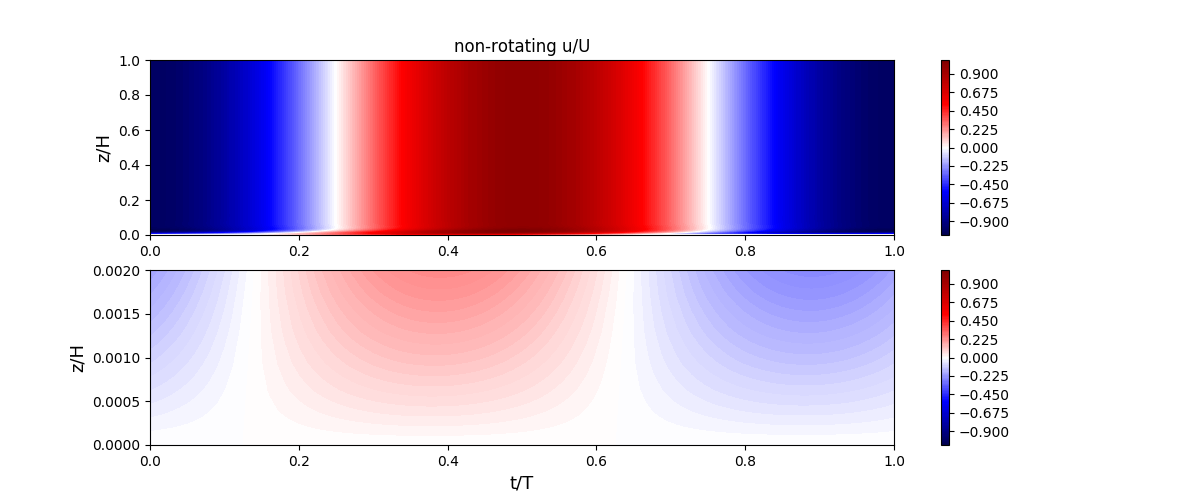
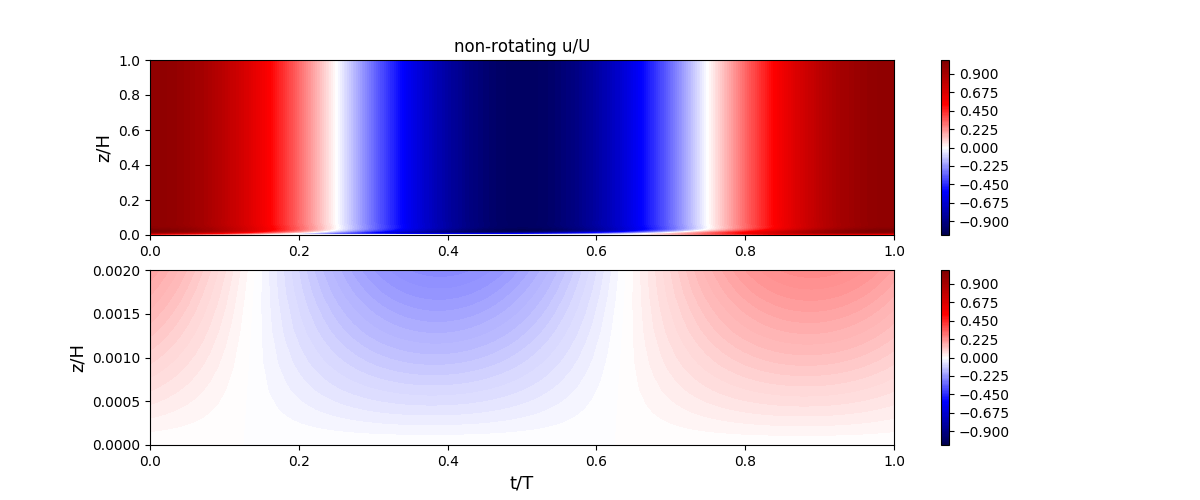
base flow & finite difference verification

diff --git a/verification_tests/functions.py b/verification_tests/functions.py
@@ -160,7 +160,8 @@ def grid_choice( grid_flag , Nz , H ):
  return z,dz
 
 
-def nonrotating_solution( params, time ): #U, N, omg, tht, nu, kap, t, z ):
+def nonrotating_solution( params, time ):  
+ # don't use, the u & b are 90 degrees out of phase
  
  z = params['z']
  U = params['U']
@@ -227,17 +228,17 @@ def nonrotating_solution( params, time ): #U, N, omg, tht, nu, kap, t, z ):
  for i in range(0,Nz):
   
      if criticality < 1.:
-       u[i] = U*np.real( (u1*np.exp(-(1.+1j)*z[i]/d1) + \
+       u[i] = - U*np.real( (u1*np.exp(-(1.+1j)*z[i]/d1) + \
                 u2*np.exp(-(1.+1j)*z[i]/d2) - 1.)*np.exp(1j*omg*time) )
-       uz[i] = - U*np.real( (u1*(1.+1j)/d1*np.exp(-(1.+1j)*z[i]/d1) + \
+       uz[i] = U*np.real( (u1*(1.+1j)/d1*np.exp(-(1.+1j)*z[i]/d1) + \
                u2*(1.+1j)/d2*np.exp(-(1.+1j)*z[i]/d2) )*np.exp(1j*omg*time) )
-       b[i] = Bs*np.real( (b1*np.exp(-(1.0+1j)*z[i]/d1) - \
+       b[i] = - Bs*np.real( (b1*np.exp(-(1.0+1j)*z[i]/d1) - \
                 b2*np.exp(-(1.+1j)*z[i]/d2) - 1.)*1j*np.exp(1j*omg*time) )
-       bz[i] = Bs*np.real( ( -(1.0+1j)/d1*b1*np.exp(-(1.0+1j)*z[i]/d1) + \
+       bz[i] = - Bs*np.real( ( -(1.0+1j)/d1*b1*np.exp(-(1.0+1j)*z[i]/d1) + \
              (1.+1j)/d2*b2*np.exp(-(1.+1j)*z[i]/d2) )*1j*np.exp(1j*omg*time) )
 
      if criticality > 1.:
-       u[i] = U*np.real( (u1*(2.*kap*d1+omg*d1*d2**2.+ \
+       u[i] = - U*np.real( (u1*(2.*kap*d1+omg*d1*d2**2.+ \
                 1j*(2.*kap*d2-omg*d1**2.*d2))*np.exp((1j-1.0)*z[i]/d2)+ \
                 u2*(omg*d1**2.*d2-2.*kap*d2+ \
                 1j*(2.0*kap*d1+omg*d1*d2**2.))*np.exp(-(1j+1.)*z[i]/d1)- \
@@ -264,7 +265,7 @@ def nonrotating_solution( params, time ): #U, N, omg, tht, nu, kap, t, z ):
  return  b, u, bz, uz
 
 
-def rotating_solution( params, time ):
+def rotating_solution( params, time, order ):
 
  z = params['z']
  U = params['U']
@@ -371,23 +372,45 @@ def rotating_solution( params, time ):
   print('Wall boundary condition failure for b(z,t)')
   return 
  
- b = np.zeros([Nz]); bz = np.zeros([Nz])
- u = np.zeros([Nz]); uz = np.zeros([Nz])
- v = np.zeros([Nz]); vz = np.zeros([Nz])
- 
+ b = np.zeros([Nz]); u = np.zeros([Nz]); v = np.zeros([Nz]); 
+ if order >= 1:
+   bz = np.zeros([Nz]); uz = np.zeros([Nz]); vz = np.zeros([Nz]);
+ if order == 2:
+   bzz = np.zeros([Nz]); uzz = np.zeros([Nz]); vzz = np.zeros([Nz]);
+
  for i in range(0,Nz):
    u[i] = np.real( ( u1*np.exp(-np.sqrt(phi1)*z[i]) + u2*np.exp(-np.sqrt(phi2)*z[i]) + \
                      u3*np.exp(-np.sqrt(phi3)*z[i]) + ap*omg ) * np.exp(1j*omg*time) ) / (N**2.*np.sin(tht))
+   if order >= 1:
+     uz[i] = np.real( ( - np.sqrt(phi1)*u1*np.exp(-np.sqrt(phi1)*z[i]) - np.sqrt(phi2)*u2*np.exp(-np.sqrt(phi2)*z[i]) - \
+                        np.sqrt(phi3)*u3*np.exp(-np.sqrt(phi3)*z[i]) ) * np.exp(1j*omg*time) ) / (N**2.*np.sin(tht))
+   if order == 2:
+     uzz[i] = np.real( ( np.sqrt(phi1)**2.*u1*np.exp(-np.sqrt(phi1)*z[i]) + np.sqrt(phi2)**2.*u2*np.exp(-np.sqrt(phi2)*z[i]) + \
+                     + np.sqrt(phi3)**2.*u3*np.exp(-np.sqrt(phi3)*z[i]) ) * np.exp(1j*omg*time) ) / (N**2.*np.sin(tht))
    if f > 0.:
      v[i] = np.real( ( v1*np.exp(-np.sqrt(phi1)*z[i]) + v2*np.exp(-np.sqrt(phi2)*z[i]) + \
                        v3*np.exp(-np.sqrt(phi3)*z[i]) + ap*(omg**2.-(N*np.sin(tht))**2 ) - \
                        A*N**2.*np.sin(tht) ) * 1j * np.exp(1j*omg*time) ) / (f * np.cos(tht) * N**2.*np.sin(tht)) 
+     if order >= 1:
+       vz[i] = np.real( ( - np.sqrt(phi1)*v1*np.exp(-np.sqrt(phi1)*z[i]) - np.sqrt(phi2)*v2*np.exp(-np.sqrt(phi2)*z[i]) - \
+                          np.sqrt(phi3)*v3*np.exp(-np.sqrt(phi3)*z[i]) ) * 1j * np.exp(1j*omg*time) ) / (f * np.cos(tht) * N**2.*np.sin(tht)) 
+     if order == 2:
+       vzz[i] = np.real( ( np.sqrt(phi1)**2.*v1*np.exp(-np.sqrt(phi1)*z[i]) + np.sqrt(phi2)**2.*v2*np.exp(-np.sqrt(phi2)*z[i]) + \
+                         np.sqrt(phi3)**2.*v3*np.exp(-np.sqrt(phi3)*z[i]) ) * 1j * np.exp(1j*omg*time) ) / (f * np.cos(tht) * N**2.*np.sin(tht)) 
    if f <= 0.:
      v[i] = 0.
+     if order >= 1:
+       vz[i] = 0.
+     if order == 2:
+       vzz[i] = 0.
    b[i] = np.real( ( c2*np.exp(-np.sqrt(phi1)*z[i]) + c4*np.exp(-np.sqrt(phi2)*z[i]) + \
                      c6*np.exp(-np.sqrt(phi3)*z[i]) + ap ) * 1j * np.exp(1j*omg*time) ) 
-
- # add gradients!!
+   if order >= 1:
+     bz[i] = np.real( ( - np.sqrt(phi1)*c2*np.exp(-np.sqrt(phi1)*z[i]) - np.sqrt(phi2)*c4*np.exp(-np.sqrt(phi2)*z[i]) - \
+                        np.sqrt(phi3)*c6*np.exp(-np.sqrt(phi3)*z[i]) ) * 1j * np.exp(1j*omg*time) ) 
+   if order == 2:
+     bzz[i] = np.real( ( np.sqrt(phi1)**2.*c2*np.exp(-np.sqrt(phi1)*z[i]) + np.sqrt(phi2)**2.*c4*np.exp(-np.sqrt(phi2)*z[i]) + \
+                      np.sqrt(phi3)**2.*c6*np.exp(-np.sqrt(phi3)*z[i]) ) * 1j * np.exp(1j*omg*time) ) 
  
  if params['wall'] == 'moving':
    u = u + np.real(U*np.exp(1j*omg*time))
@@ -396,13 +419,12 @@ def rotating_solution( params, time ):
      v = v - np.real( ( ap*(omg**2.-(N*np.sin(tht))**2 ) - A*N**2.*np.sin(tht) ) * 1j * np.exp(1j*omg*time) ) / (f * np.cos(tht) * N**2.*np.sin(tht))
      # subtract the geostropphic component of v; means the wall moves in the along-slope direction
 
- u = np.real(u) 
- v = np.real(v) 
- b = np.real(b)
- uz = np.real(uz) 
- bz = np.real(bz)
-
- return b, u, v
+ if order < 1.:
+   return np.real(b), np.real(u), np.real(v)
+ if order == 1.:
+   return np.real(b), np.real(u), np.real(v), np.real(bz), np.real(uz), np.real(vz)
+ if order == 2.:
+   return np.real(b), np.real(u), np.real(v), np.real(bz), np.real(uz), np.real(vz), np.real(bzz), np.real(uzz), np.real(vzz)
 
 
 #==============================================================================
@@ -425,7 +447,7 @@ def weights2( z0 , z1 , z2 , z3 , zj ):
  return l0, l1, l2, l3
 
 
-def partial_zz( params, time, lower_BC_flag , upper_BC_flag ):
+def partial_zz( params, lower_BC_flag , upper_BC_flag ):
  # second derivative, permiting non-uniform grids
  Nz = params['Nz']
  z = params['z']
@@ -450,6 +472,7 @@ def partial_zz( params, time, lower_BC_flag , upper_BC_flag ):
  if lower_BC_flag == 'neumann':
    l1 = l1 + l0 # Neumann for dz(phi)=0 at z=0 (sets phi_ghost = phi_0)
  pzz[0,0:3] = [ l1 , l2 , l3 ]
+ lBC = l0
 
  # upper (far field) BC
  zj = z[Nz-1] # location of derivative for upper BC
@@ -459,7 +482,7 @@ def partial_zz( params, time, lower_BC_flag , upper_BC_flag ):
  if upper_BC_flag == 'neumann':
    l2 = l3 + l2 # Neumann for dz(phi)=0 at z=H (sets phi_ghost = phi_N)
  pzz[Nz-1,Nz-3:Nz] = [ l0 , l1 , l2 ]
- return pzz
+ return pzz,lBC
 
 
 def partial_z( params, lower_BC_flag , upper_BC_flag ):
@@ -486,7 +509,8 @@ def partial_z( params, lower_BC_flag , upper_BC_flag ):
  if lower_BC_flag == 'neumann':
    l1 = l1 + l0 # Neumann for dz(phi)=0 at z=0 (sets phi_ghost = phi_0)
  pz[0,0:3] = [ l1 , l2 , l3 ]
-   
+ lBC = l0
+  
  # upper (far field) BC
  l0, l1, l2, l3 = weights( z[Nz-3] , z[Nz-2] , z[Nz-1] , H + (H-z[Nz-1]) , z[Nz-1] )
  if upper_BC_flag == 'dirchlet':
@@ -495,7 +519,7 @@ def partial_z( params, lower_BC_flag , upper_BC_flag ):
    l2 = l3 + l2 # Neumann for dz(phi)=0 at z=H (sets phi_ghost = phi_N)
  pz[Nz-1,Nz-3:Nz] = [ l0 , l1 , l2 ]
  
- return pz
+ return pz,lBC
 
 
 def weights( z0 , z1 , z2 , z3 , zj ):

diff --git a/verification_tests/base_flow_test.py b/verification_tests/base_flow_test.py
@@ -2,6 +2,7 @@
 # Bryan Kaiser
 # 3/  /2019
 
+# rotating vs. non-rotating phase relationships: one is not correct! 
 
 import h5py
 import numpy as np
@@ -29,7 +30,7 @@ nu = 2.0e-6 # m^2/s, kinematic viscosity
 Pr = 1. # Prandtl number
 kap = nu/Pr # m^2/s, thermometric diffusivity
 omg = 2.0*np.pi/T # rads/s
-f = 1e-4 # 1/s, inertial frequency
+f = 0. #1e-4 # 1/s, inertial frequency
 N = 1e-3 # 1/s, buoyancy frequency
 C = 1./4. # N^2*sin(tht)/omg, slope ``criticality''
 U = 0.01 # m/s, oscillation velocity amplitude
@@ -58,31 +59,44 @@ params = {'nu': nu, 'kap': kap, 'omg': omg, 'L':L, 'T': T, 'U': U, 'H': H,
           'dz_min':(np.amin(dz)),'Nt':Nt, 'CFL':(dt/np.amin(dz)), 'z':z, 'dz':dz}
 
 
+# non-rotating solutions
 u = np.zeros([Nz,Nt]); b = np.zeros([Nz,Nt]); 
 uz = np.zeros([Nz,Nt]); bz = np.zeros([Nz,Nt]); 
-t = np.zeros([Nt])
 
+# rotating solutions
 ur = np.zeros([Nz,Nt]); vr = np.zeros([Nz,Nt]); br = np.zeros([Nz,Nt]); 
+uzr = np.zeros([Nz,Nt]); vzr = np.zeros([Nz,Nt]); bzr = np.zeros([Nz,Nt]); 
+uzzr = np.zeros([Nz,Nt]); vzzr = np.zeros([Nz,Nt]); bzzr = np.zeros([Nz,Nt]);
 
-uz_check = np.zeros([Nz,Nt]);
-bz_check = np.zeros([Nz,Nt]);
+# verification of the finite differencing
+uz_check = np.zeros([Nz,Nt]); bz_check = np.zeros([Nz,Nt]);
+uzz_check = np.zeros([Nz,Nt]); bzz_check = np.zeros([Nz,Nt]);
 
 
+t = np.zeros([Nt])
 time = 0.
-
 for n in range(0,Nt):
 
   t[n] = time
   b[:,n],u[:,n],bz[:,n],uz[:,n] = fn.nonrotating_solution( params, time )
-  br[:,n],ur[:,n],vr[:,n] = fn.rotating_solution( params, time )
-  time = time + dt
-
+  br[:,n], ur[:,n], vr[:,n], bzr[:,n], uzr[:,n], vzr[:,n] , bzzr[:,n], uzzr[:,n], vzzr[:,n] = fn.rotating_solution( params, time, 2 )
+ 
   if wall_flag == 'moving':
-    uz_check[:,n] = np.dot( np.real(fn.partial_z( params, 'neumann', 'neumann' )) , u[:,n] ) 
-    # lower bc doesn't work for the moving wall, but not necessary
+    dz,lBC = fn.partial_z( params, 'dirchlet' , 'neumann' )
+    dzz,lBC2 = fn.partial_zz( params, 'dirchlet' , 'neumann' )
+    uz_check[:,n] = np.dot( np.real( dz ) , u[:,n] )
+    uz_check[0,n] = uz_check[0,n] + lBC * 2.* np.real(U*np.exp(1j*omg*time)) # moving wall
+    uzz_check[:,n] = np.dot( np.real( dzz ) , u[:,n] )
+    uzz_check[0,n] = uzz_check[0,n] + lBC2 * 2.* np.real(U*np.exp(1j*omg*time)) # moving wall
+
   if wall_flag == 'farfield':
-    uz_check[:,n] = np.dot( np.real(fn.partial_z( params, 'dirchlet', 'neumann' )) , u[:,n] )
-  bz_check[:,n] = np.dot( np.real(fn.partial_z( params, 'neumann' , 'neumann' )) , b[:,n] )
+    uz_check[:,n] = np.dot( np.real( fn.partial_z( params, 'dirchlet', 'neumann' )[0] ) , u[:,n] )
+    uzz_check[:,n] = np.dot( np.real( fn.partial_zz( params, 'dirchlet', 'neumann' )[0] ) , u[:,n] )
+
+  bz_check[:,n] = np.dot( np.real( fn.partial_z( params, 'neumann' , 'neumann' )[0] ) , b[:,n] )
+  bzz_check[:,n] = np.dot( np.real( fn.partial_zz( params, 'neumann' , 'neumann' )[0] ) , b[:,n] )
+
+  time = time + dt
 
 zmaxzoom = 0.002
 
@@ -195,6 +209,22 @@ plt.ylabel(r"z/H",fontsize=13);
 plt.axis([0.,1.,0.,zmaxzoom])
 plt.savefig(plotname,format="png"); plt.close(fig);
 
+plotname = figure_path + wall_flag + '_uzr_solution.png' 
+fig = plt.figure(figsize=(12,5))
+plottitle = r"$u_z\delta$/U" 
+plt.subplot(2, 1, 1)
+CS = plt.contourf(A,B,uzr*dS/U,200,cmap='seismic')
+plt.colorbar(CS)
+plt.ylabel(r"z/H",fontsize=13); 
+plt.axis([0.,1.,0.,1.])
+plt.title(plottitle);
+plt.subplot(2, 1, 2)
+CS = plt.contourf(A,B,uzr*dS/U,200,cmap='seismic')
+plt.colorbar(CS)
+plt.xlabel(r"t/T",fontsize=13);
+plt.ylabel(r"z/H",fontsize=13); 
+plt.axis([0.,1.,0.,zmaxzoom])
+plt.savefig(plotname,format="png"); plt.close(fig);
 
 plotname = figure_path + wall_flag + '_uz_solution_check.png' 
 fig = plt.figure(figsize=(12,5))
@@ -243,6 +273,77 @@ plt.axis([0.,1.,0.,1.])
 plt.title(plottitle);
 plt.subplot(2, 1, 2)
 CS = plt.contourf(A,B,bz_check*dS/Binf,200,cmap='seismic')
+plt.colorbar(CS)
+plt.xlabel(r"t/T",fontsize=13);
+plt.ylabel(r"z/H",fontsize=13); 
+plt.axis([0.,1.,0.,zmaxzoom])
+plt.savefig(plotname,format="png"); plt.close(fig);
+
+
+
+plotname = figure_path + wall_flag + '_uzzr_solution.png' 
+fig = plt.figure(figsize=(12,5))
+plottitle = r"$u_{zz}\delta^2$/U" 
+plt.subplot(2, 1, 1)
+CS = plt.contourf(A,B,uzzr*dS**2/U,200,cmap='seismic')
+plt.colorbar(CS)
+plt.ylabel(r"z/H",fontsize=13); 
+plt.axis([0.,1.,0.,1.])
+plt.title(plottitle);
+plt.subplot(2, 1, 2)
+CS = plt.contourf(A,B,uzzr*dS**2/U,200,cmap='seismic')
+plt.colorbar(CS)
+plt.xlabel(r"t/T",fontsize=13);
+plt.ylabel(r"z/H",fontsize=13); 
+plt.axis([0.,1.,0.,zmaxzoom])
+plt.savefig(plotname,format="png"); plt.close(fig);
+
+plotname = figure_path + wall_flag + '_uzz_solution_check.png' 
+fig = plt.figure(figsize=(12,5))
+plottitle = r"$u_{zz}\delta^2$/U" 
+plt.subplot(2, 1, 1)
+CS = plt.contourf(A,B,uzz_check*dS**2/U,200,cmap='seismic')
+plt.colorbar(CS)
+plt.ylabel(r"z/H",fontsize=13); 
+plt.axis([0.,1.,0.,1.])
+plt.title(plottitle);
+plt.subplot(2, 1, 2)
+CS = plt.contourf(A,B,uzz_check*dS**2./U,200,cmap='seismic')
+plt.colorbar(CS)
+plt.xlabel(r"t/T",fontsize=13);
+plt.ylabel(r"z/H",fontsize=13); 
+plt.axis([0.,1.,0.,zmaxzoom])
+plt.savefig(plotname,format="png"); plt.close(fig);
+
+
+plotname = figure_path + wall_flag + '_bzzr_solution.png' 
+fig = plt.figure(figsize=(12,5))
+plottitle = r"$b_{zz}\delta^2$/($LN^2\sin\theta$)" 
+plt.subplot(2, 1, 1)
+CS = plt.contourf(A,B,bzzr*dS**2/Binf,200,cmap='seismic')
+plt.colorbar(CS)
+plt.ylabel(r"z/H",fontsize=13); 
+plt.axis([0.,1.,0.,1.])
+plt.title(plottitle);
+plt.subplot(2, 1, 2)
+CS = plt.contourf(A,B,bzzr*dS**2/Binf,200,cmap='seismic')
+plt.colorbar(CS)
+plt.xlabel(r"t/T",fontsize=13);
+plt.ylabel(r"z/H",fontsize=13); 
+plt.axis([0.,1.,0.,zmaxzoom])
+plt.savefig(plotname,format="png"); plt.close(fig);
+
+plotname = figure_path + wall_flag + '_bzz_solution_check.png' 
+fig = plt.figure(figsize=(12,5))
+plottitle = r"$b_{zz}\delta^2$/($LN^2\sin\theta$)" 
+plt.subplot(2, 1, 1)
+CS = plt.contourf(A,B,bzz_check*dS**2/Binf,200,cmap='seismic')
+plt.colorbar(CS)
+plt.ylabel(r"z/H",fontsize=13); 
+plt.axis([0.,1.,0.,1.])
+plt.title(plottitle);
+plt.subplot(2, 1, 2)
+CS = plt.contourf(A,B,bzz_check*dS**2./Binf,200,cmap='seismic')
 plt.colorbar(CS)
 plt.xlabel(r"t/T",fontsize=13);
 plt.ylabel(r"z/H",fontsize=13); 
